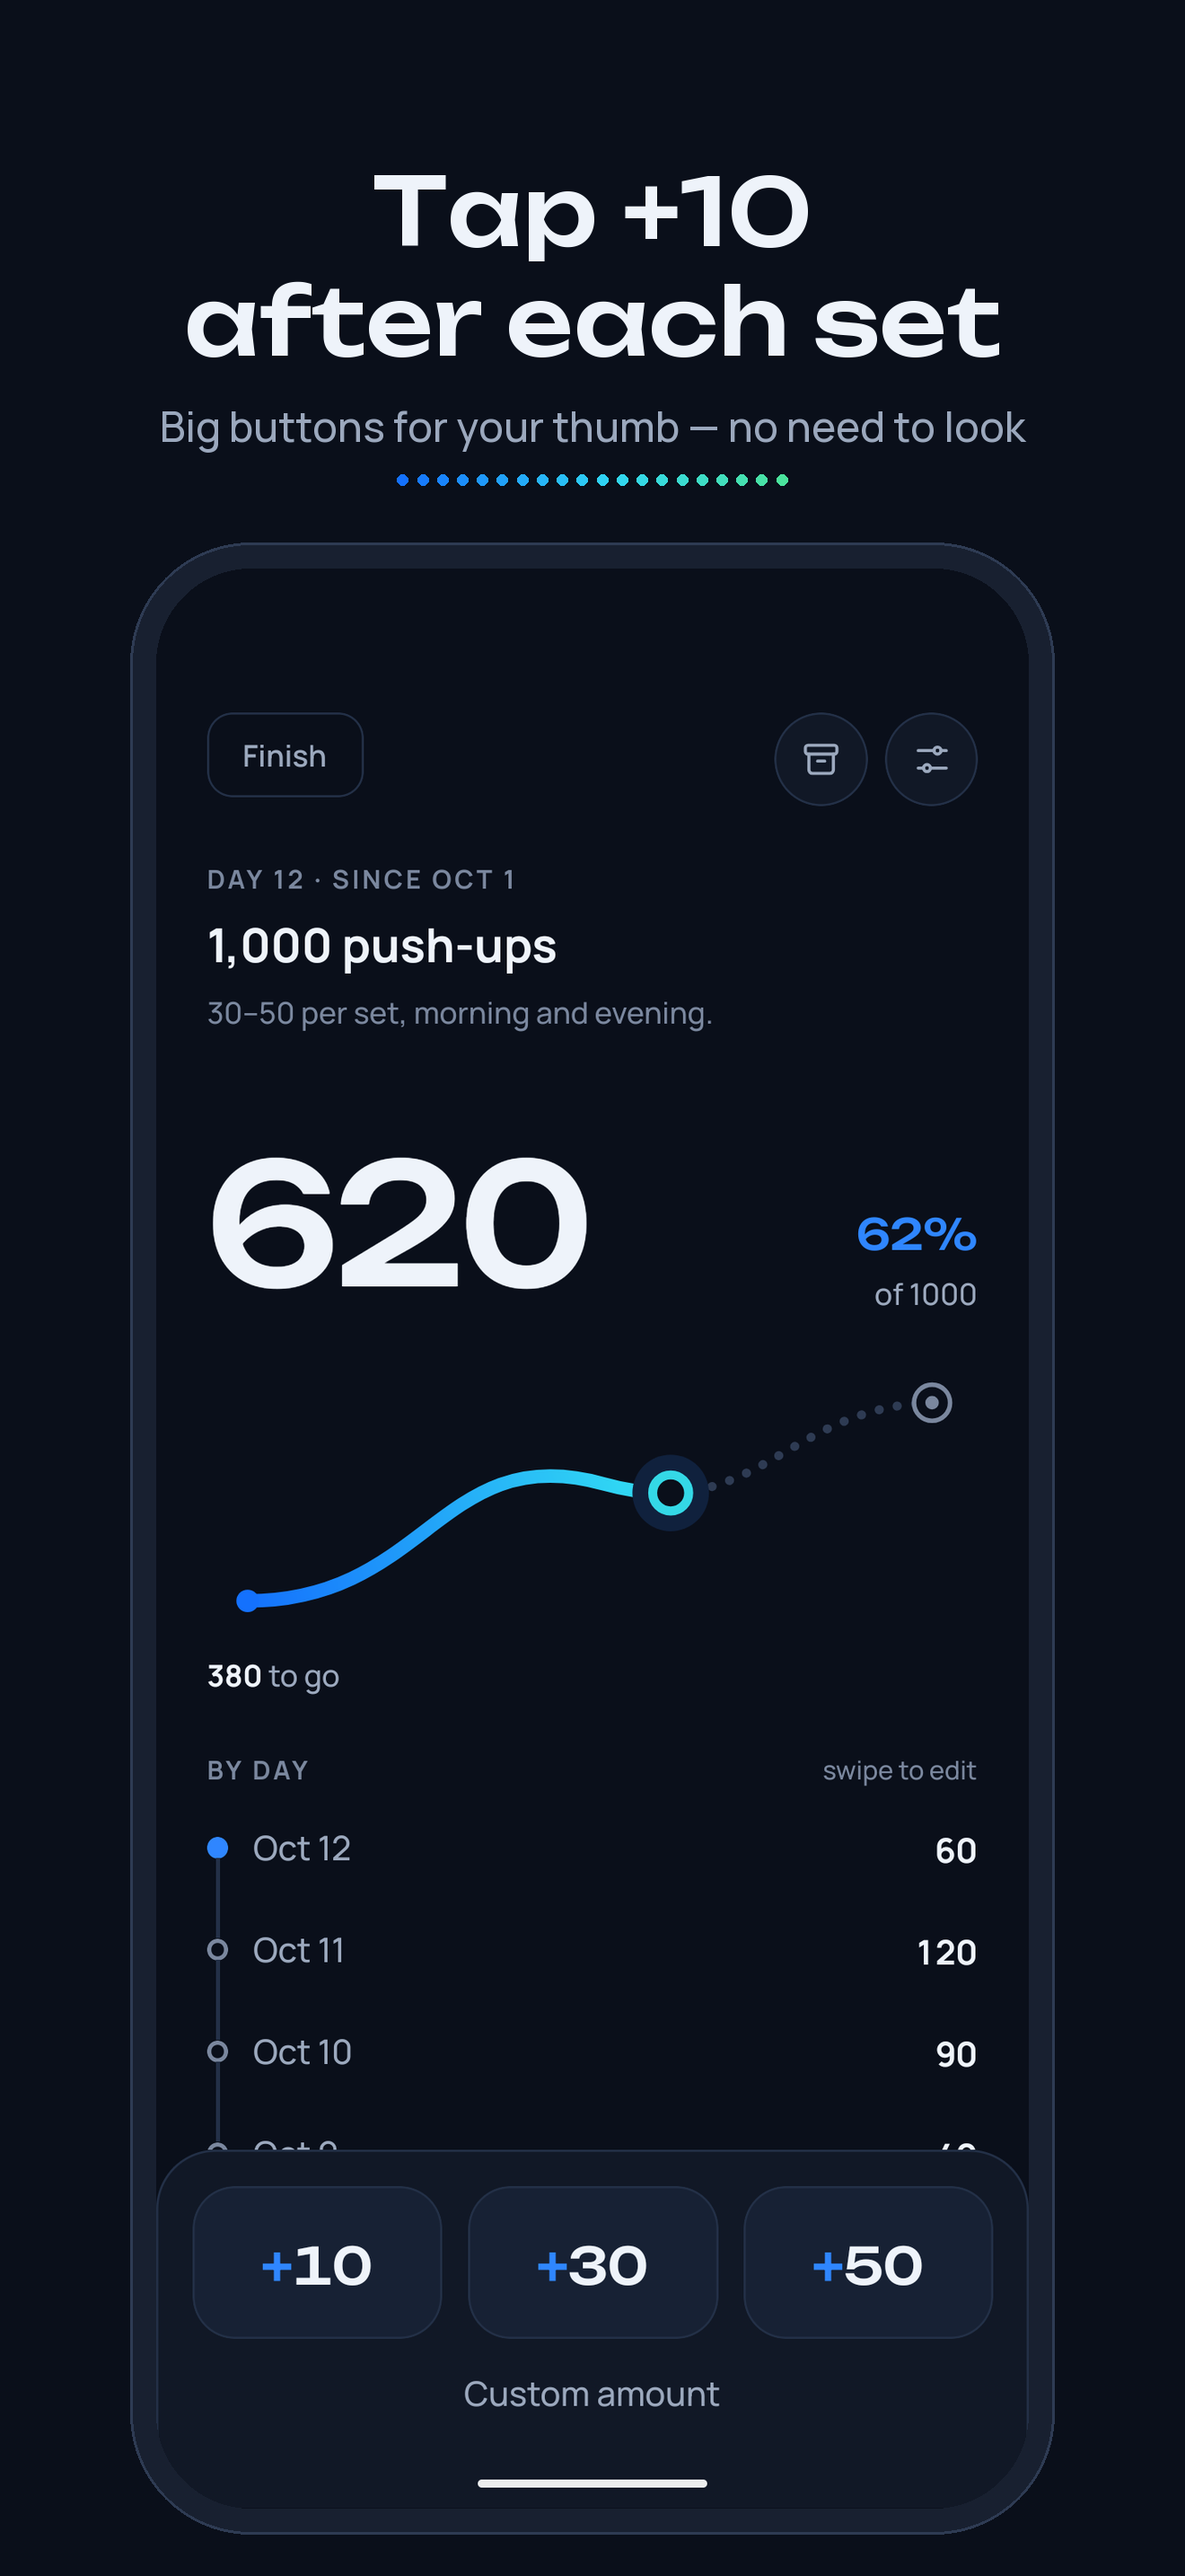
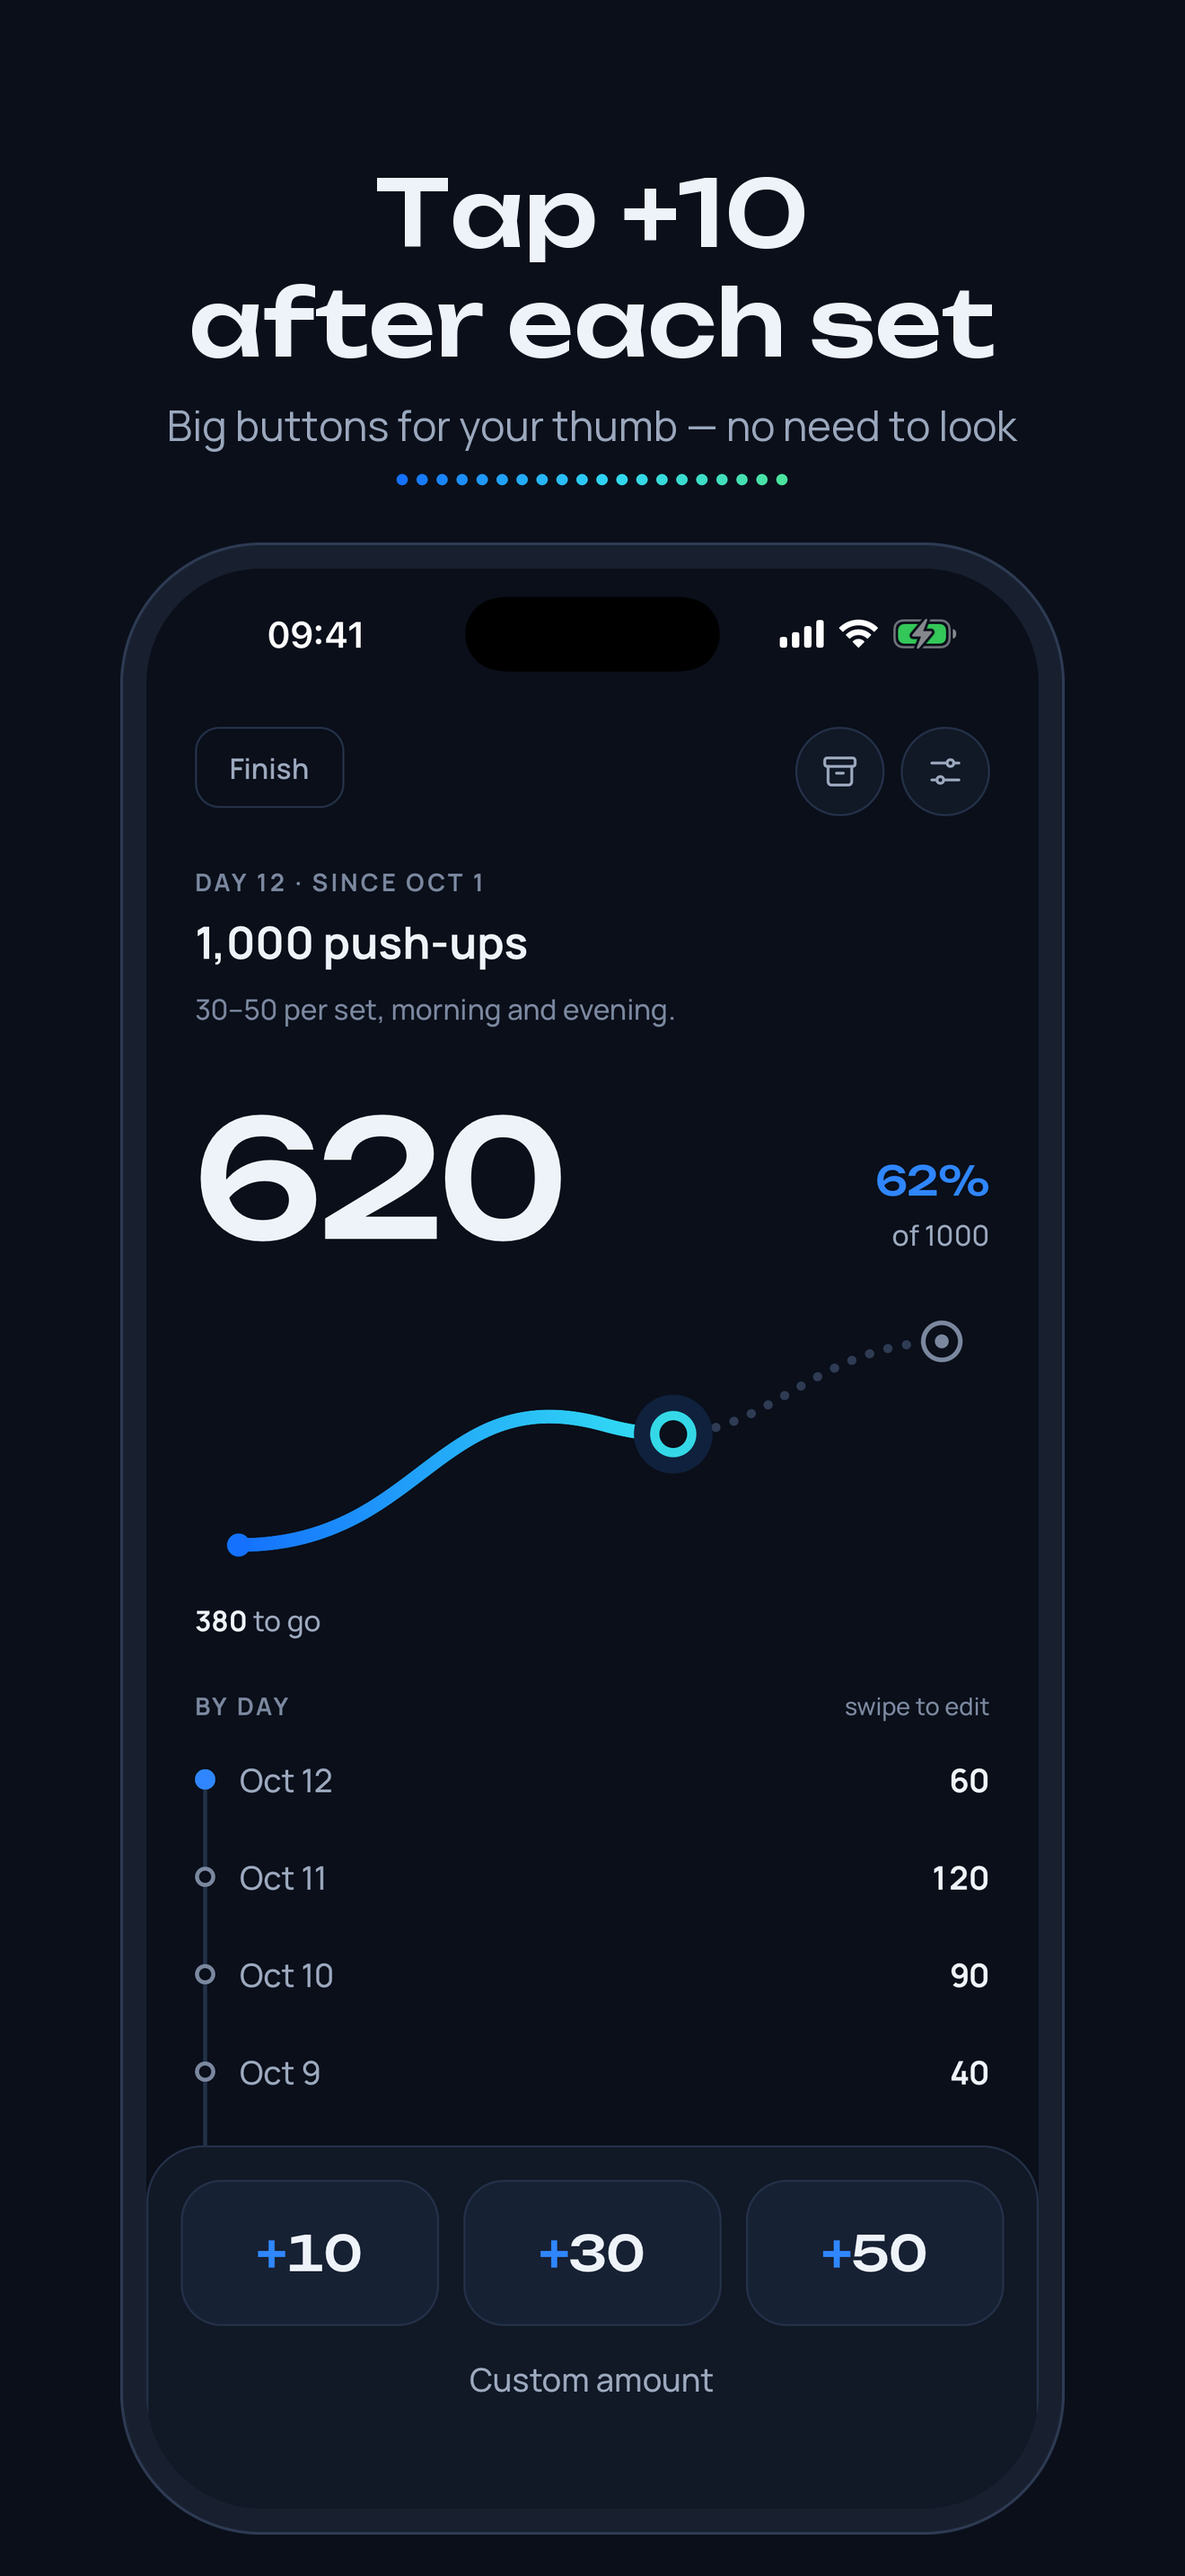
Скриншоты App Store с iPhone
store/app-store и store/app-store-en: те же пять экранов и подписи, но
сняты с релизной сборки на симуляторе iPhone 17 Pro Max (iOS 26.3)
вместо эмулятора Android. Строка состояния iOS (9:41) и Dynamic Island,
экран в пропорциях iPhone 6.9". Размеры прежние: 1320×2868 и 1242×2688,
PNG без прозрачности. Даты демо-целей — 1–12 октября на обоих языках.

diff --git a/store/README.md b/store/README.md
@@ -1,6 +1,6 @@
 # Картинки для страниц приложения в магазинах
 
-Сняты с релизной сборки 1.0.0 на эмуляторе Pixel 7, демо-данные. Строка состояния убрана, рамка телефона и подписи — в стиле приложения (палитра «Фирменная», Unbounded и Manrope).
+Сняты с релизной сборки 1.0.0, демо-данные: для App Store — на симуляторе iPhone 17 Pro Max (iOS 26.3, Xcode), для Google Play — на эмуляторе Pixel 7. Рамка телефона и подписи — в стиле приложения (палитра «Фирменная», Unbounded и Manrope). На кадрах App Store — строка состояния iOS (9:41, полный заряд) и Dynamic Island, на Google Play строка состояния убрана.
 
 ## App Store (`app-store/`)
 
